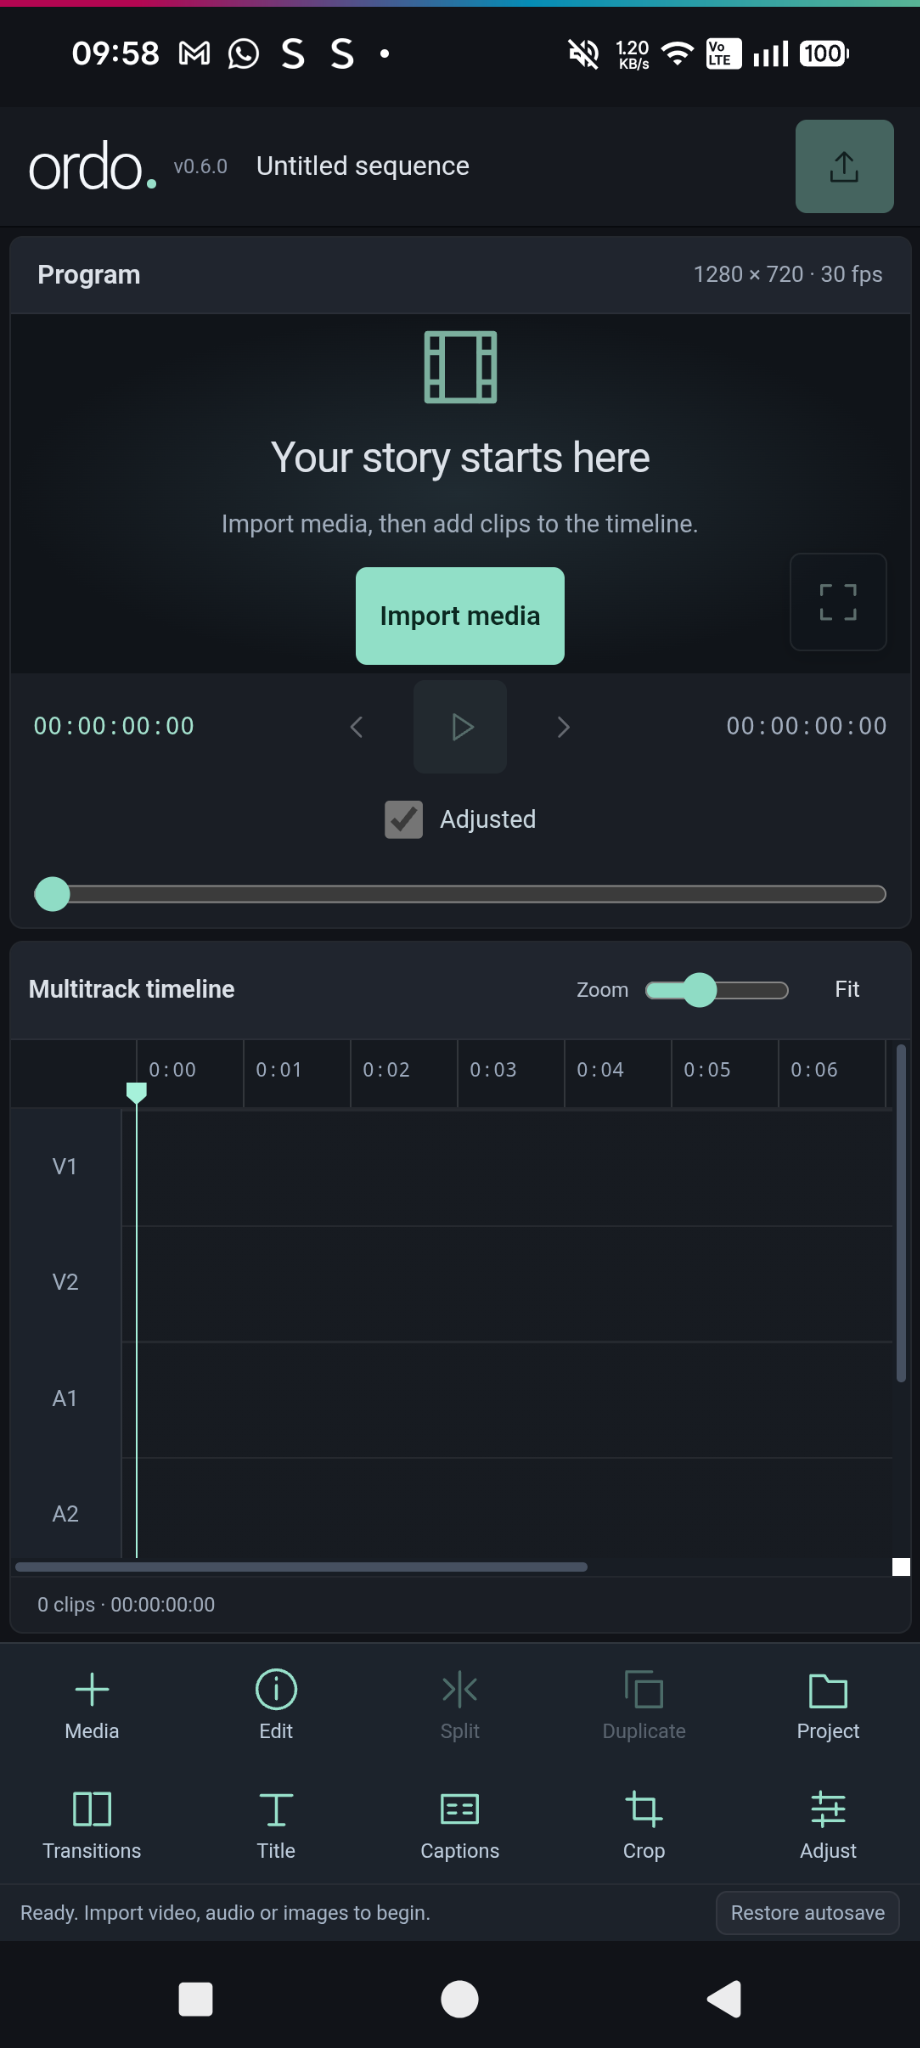
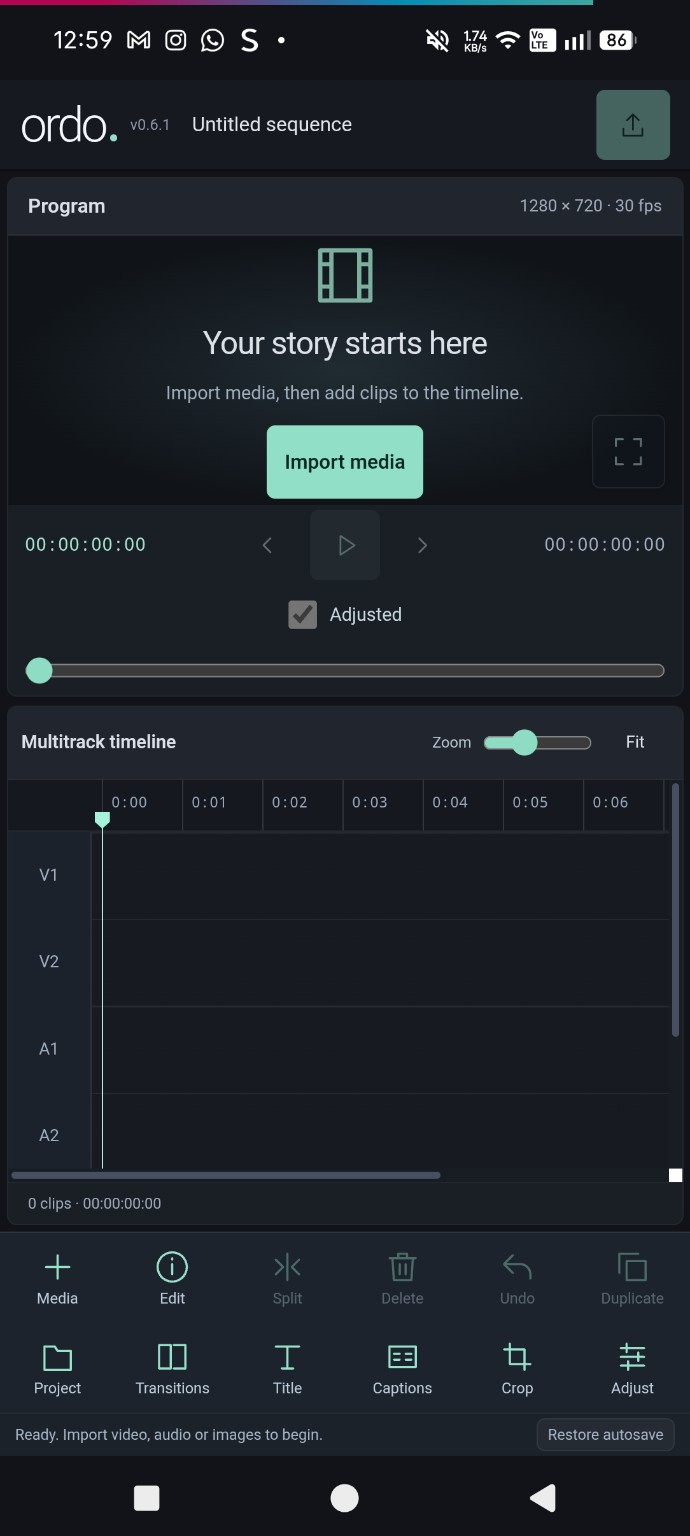
docs: refresh landing hero with updated Android toolbar screenshot

diff --git a/website/style.css b/website/style.css
@@ -5,8 +5,8 @@
 /* The original screenshot remains intact. The viewport excludes only Android's OS bars. */
 .phone-visual{display:flex;flex-direction:column;align-items:center;justify-content:center;padding:0 12px 0;isolation:isolate;background:radial-gradient(ellipse at 50% 45%,#95dfc911,transparent 66%)}
 .phone-frame{position:relative;width:min(100%,338px);padding:8px;border:1px solid #75828770;border-radius:35px;background:linear-gradient(135deg,#50585f,#171d22 18%,#090b0f 70%,#40494e);box-shadow:0 28px 70px #0007,inset 0 0 0 2px #151a1e;transform:rotate(2deg)}
-.phone-screen{position:relative;width:100%;aspect-ratio:920 / 1835;overflow:hidden;border-radius:26px;background:#111318;border:1px solid #0b0f13}
-.phone-screen>.android-screenshot{position:absolute;inset:0 auto auto 0;display:block;width:100%;max-width:none;height:auto;transform:translateY(-5.224609375%)}
+.phone-screen{position:relative;width:100%;aspect-ratio:690 / 1377;overflow:hidden;border-radius:26px;background:#111318;border:1px solid #0b0f13}
+.phone-screen>.android-screenshot{position:absolute;inset:0 auto auto 0;display:block;width:100%;max-width:none;height:auto;transform:translateY(-5.208333333%)}
 .phone-button{position:absolute;width:3px;border-radius:2px;background:linear-gradient(90deg,#687178,#242c32);z-index:-1;right:-3px}
 .phone-button-volume{top:17%;height:11%}.phone-button-power{top:34%;height:7%}
 .screenshot-cleanup{position:absolute;left:96.8%;top:79.02%;width:2.3%;height:1.14%;background:linear-gradient(#181d24,#1a1e25)}

diff --git a/website/index.html b/website/index.html
@@ -62,7 +62,7 @@
      <span class="phone-button phone-button-volume" aria-hidden="true"></span>
      <span class="phone-button phone-button-power" aria-hidden="true"></span>
      <div class="phone-screen">
-      <img class="android-screenshot" src="./assets/ordo-android-screenshot.png" alt="Ordo v0.6.0 running on an Android phone, showing the import preview, multitrack timeline and Media, Edit, Transitions, Title, Captions, Crop and Adjust tools" width="920" height="2048" fetchpriority="high" decoding="async">
+      <img class="android-screenshot" src="./assets/ordo-android-screenshot.png?v=20261024" alt="Ordo running on Android, showing the import preview, multitrack timeline and updated two-row toolbar with Split, Delete and Undo" width="690" height="1536" fetchpriority="high" decoding="async">
       <span class="screenshot-cleanup" aria-hidden="true"></span>
      </div>
     </div>

diff --git a/README.md b/README.md
@@ -8,7 +8,7 @@ A free, open-source video editor for Android. Edit video, images and sound on yo
 | --- | --- |
 | Current app | v0.6.2, development build |
 | Platform | Android 7.0 or later; codec support varies by device |
-| Website | Product information, real Android app preview, responsive layout and APK downloads |
+| Website | Product information, updated Android screenshot with the two-row toolbar, responsive layout and APK downloads |
 | Privacy | Local editing and rendering; bundled offline fonts |
 | Licence | MIT; dependency and font licences also apply |
 
